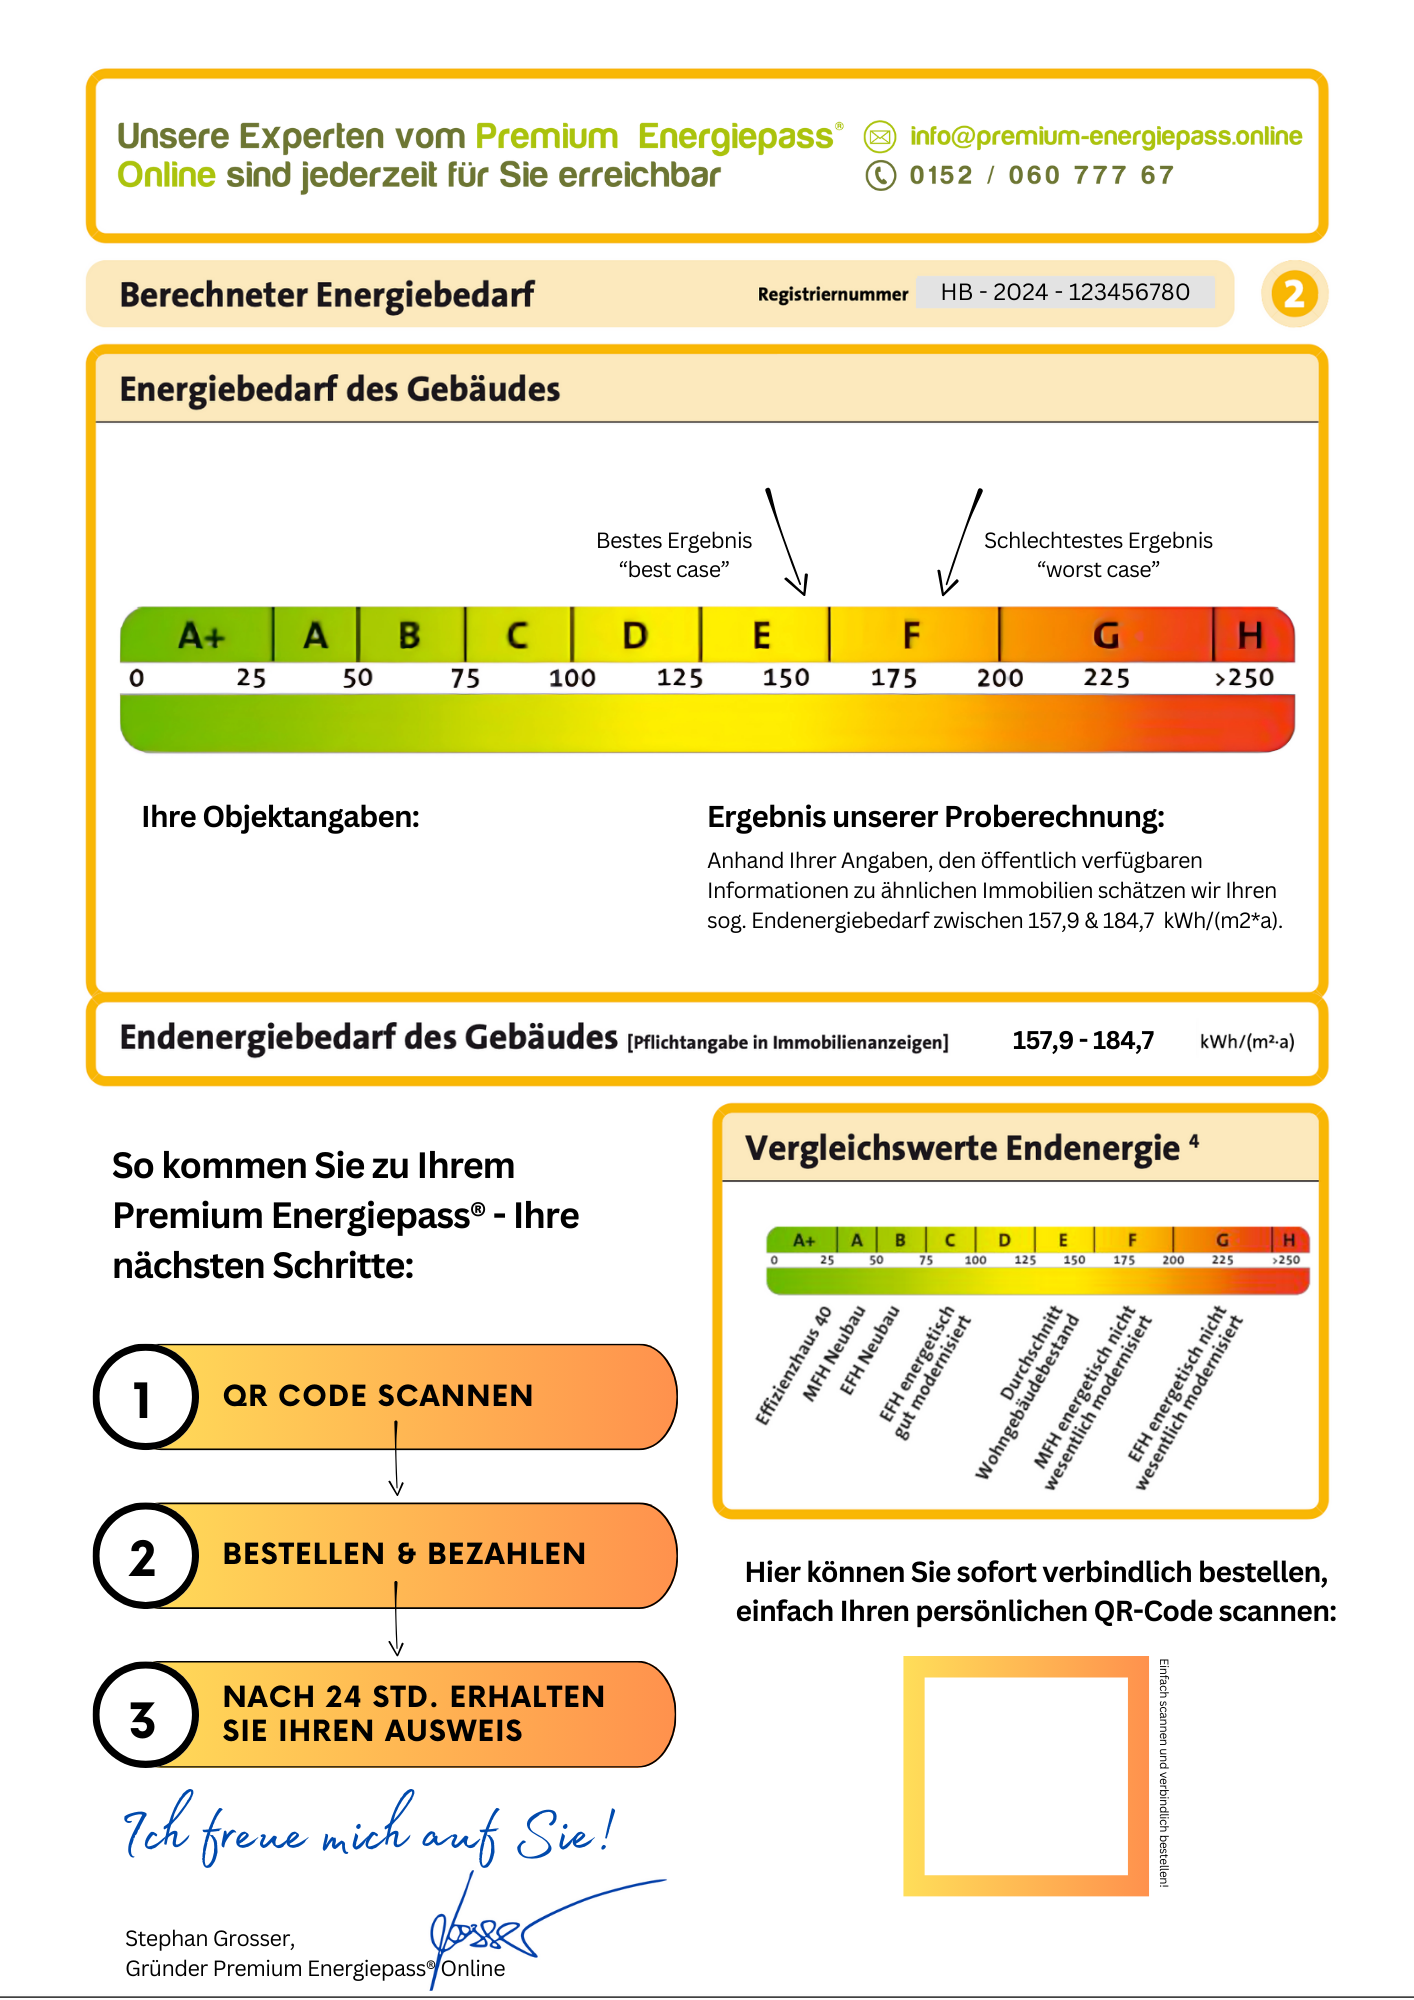
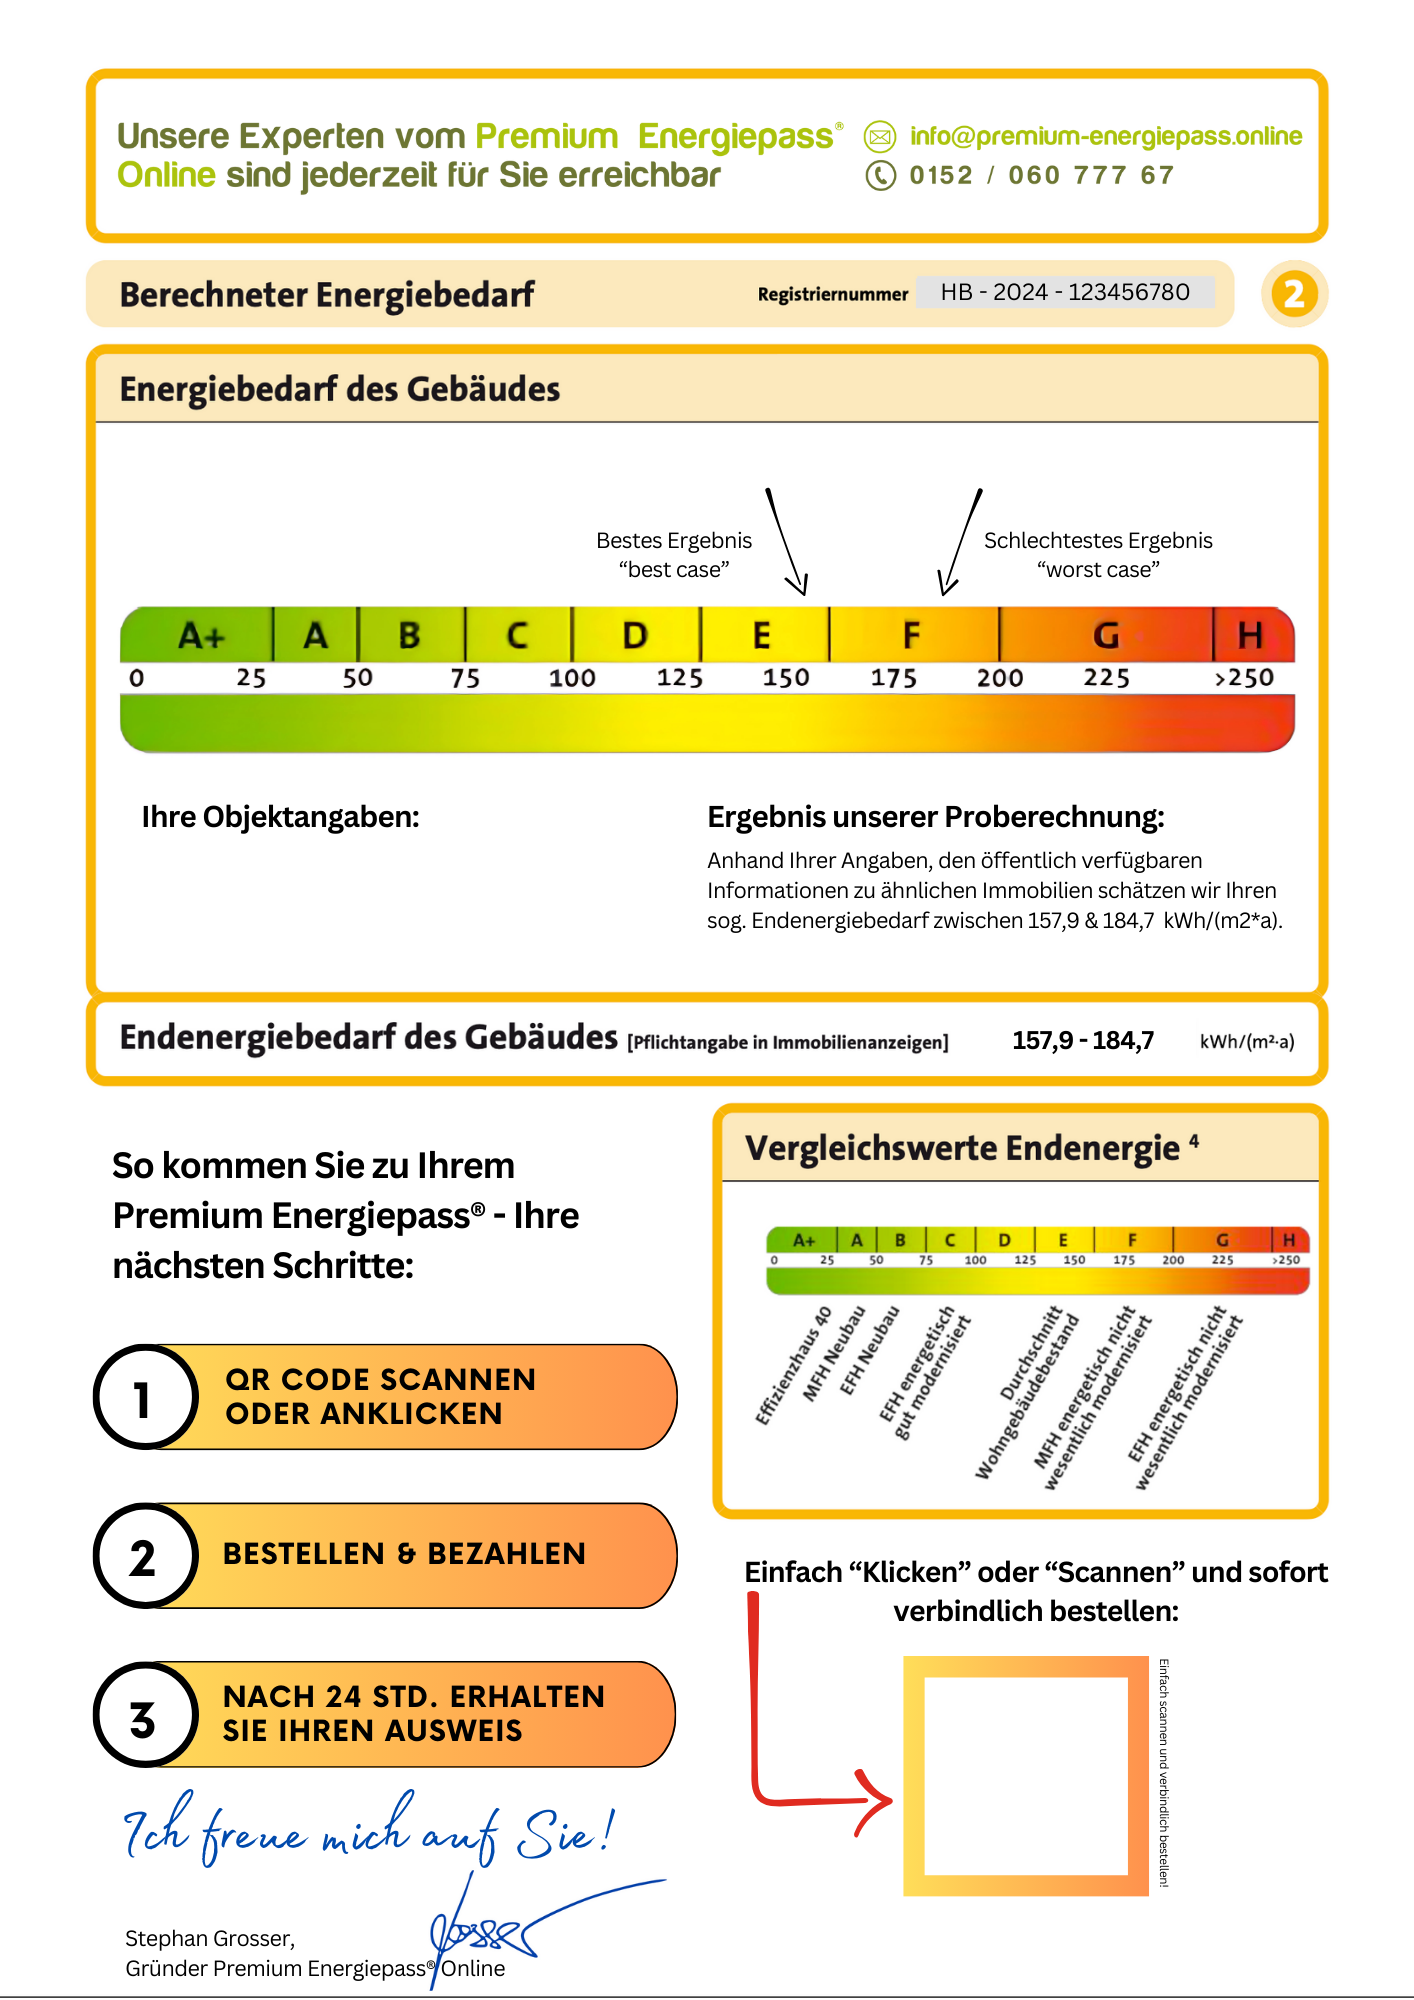
Fine tuning für den produktiven Betrieb

Changed region(s): [[0.529, 0.775, 0.9335, 0.899], [0.1556, 0.682, 0.3734, 0.713], [0.5601, 0.868, 0.6223, 0.93]]

diff --git a/src/components/sections/Process.tsx b/src/components/sections/Process.tsx
@@ -43,7 +43,7 @@ export default function Process() {
     {
       number: "2",
       title: "Gratis Probeberechnung prüfen",
-      description: "Wir erstellen eine kostenlose Proberechnung für Sie und senden diese per E-Mail oder WhatsApp zu",
+      description: "Wir erstellen Ihre kostenlose Proberechnung. Diese schicken wir per E-Mail oder Sie laden sie einfach herunter, ganz ohne Angabe weiterer Daten.",
       icon: "📊"
     },
     {
